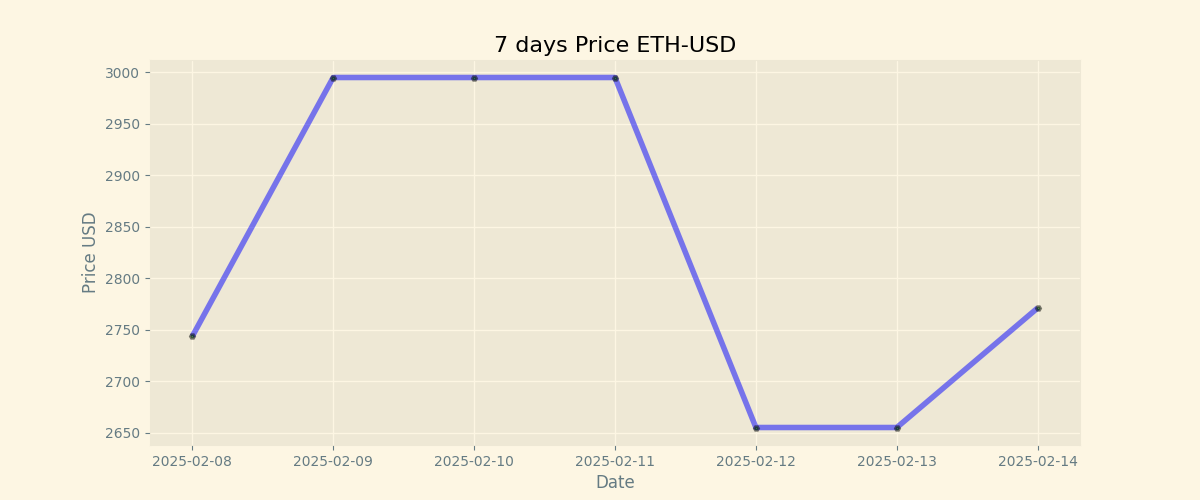
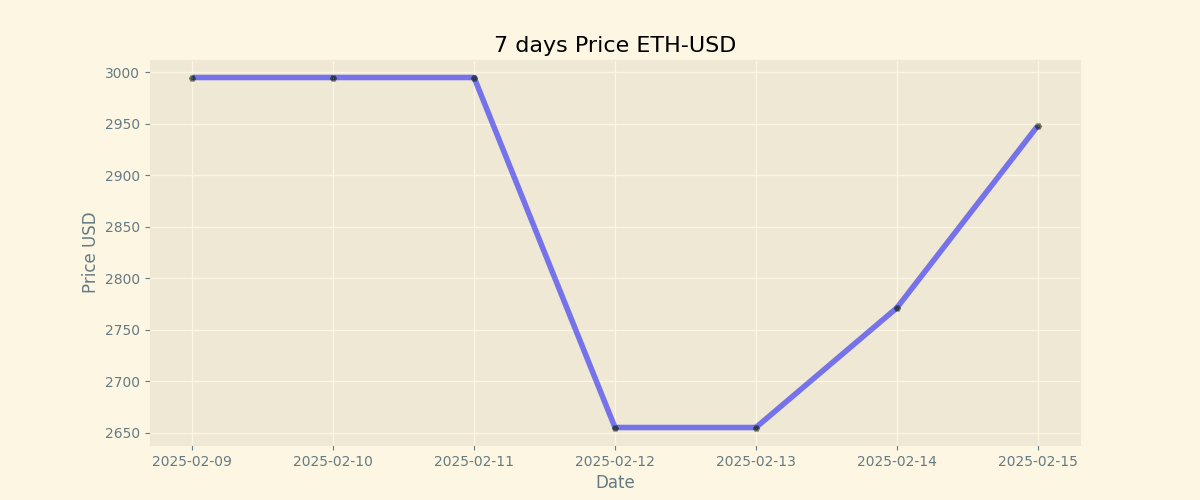
Duty Updates 2025-02-15

diff --git a/README.md b/README.md
@@ -9,8 +9,8 @@
 
 | Currency | Price           |
 | -------- | --------------- |
-| **BTC**  | **$ 96119.24** |
-| **ETH**  | **$ 2771.17** |
+| **BTC**  | **$ 97059.97** |
+| **ETH**  | **$ 2947.99** |
 
 ## BTC chart
 
